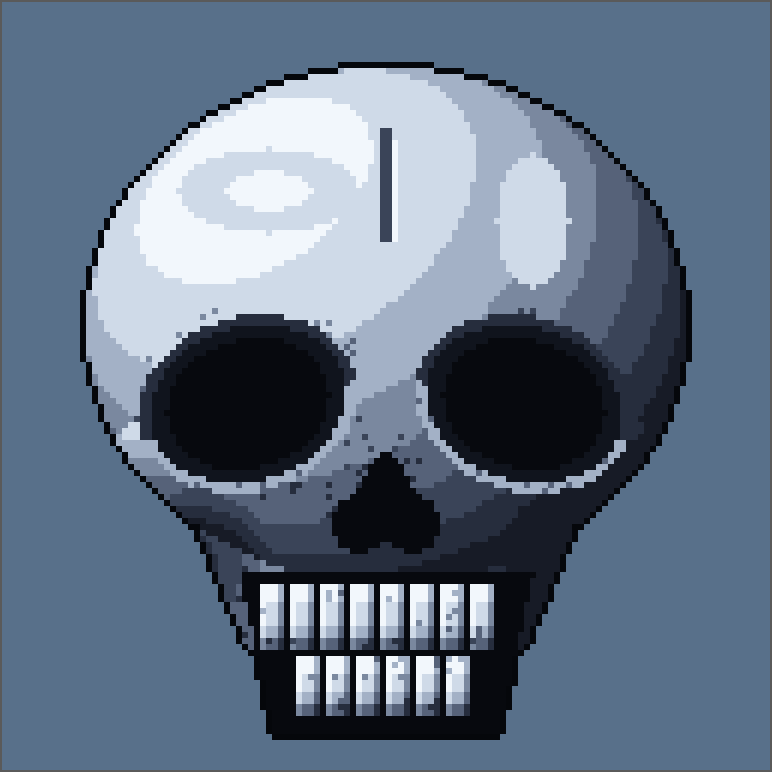
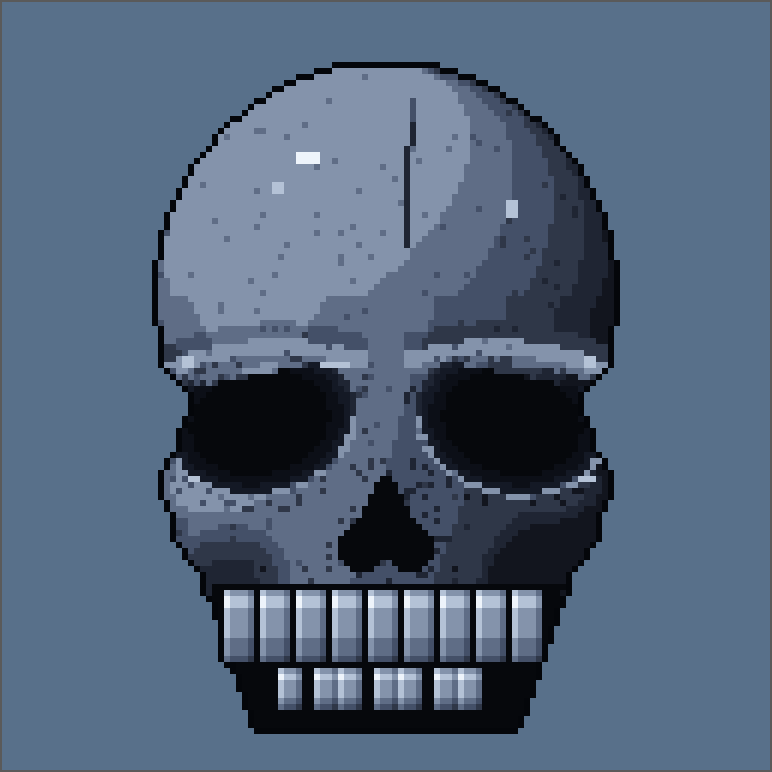
#293 試作: 体力バーのどくろを見本に近づける（縦長の頭・眉の骨・こけた頬・いぶし銀）
Claude-Session: https://claude.ai/code/session_01QfHcWbgsws2Ytjz8pHv94r

diff --git a/art/293/hpbar-skull/build.py b/art/293/hpbar-skull/build.py
@@ -1,5 +1,5 @@
 """#293 試作: ボス体力バーの 飾り（銀の どくろの 指輪。見本は オーナーの 参考画像）。128 × 128、正面、左上から 光。
-python3 build.py で skull_1x.png と preview.png。とげ・刃・光る 目は 付けない（オーナー 2026-10-24）"""
+python3 build.py で skull_1x.png と preview.png。とげ・刃・光る 目は 付けない（オーナー 2026-10-24）。いぶし銀（暗めの 銀 ＋ 黒い よごれ ＋ 小さな 反射）"""
 import math, os, random, sys
 ROOT = os.path.abspath(os.path.join(os.path.dirname(__file__), "..", "..", ".."))
 sys.path.insert(0, os.path.join(ROOT, ".claude", "skills", "pixel-art-studio", "scripts"))
@@ -7,123 +7,140 @@ from pixelstudio import Sprite
 
 N = 128
 CX = 64.0
-SILVER = ["#171b26", "#262d3d", "#3a4458", "#566279", "#7a889f", "#a3b1c6", "#cfdae8", "#f2f7fc"]
-PIT = "#07090e"  # くぼみの 奥
-OUT = "#05070b"
+SILVER = ["#12151e", "#1f2533", "#2f3748", "#445068", "#5f6d86", "#8493ab", "#b4c2d6", "#eef4fb"]
+PIT = "#06080c"
+OUT = "#04060a"
 LIGHT = (-0.5, -0.6, 0.62)
 rnd = random.Random(293)
 s = Sprite(N, N)
-buf = {}
-idx = {}  # 銀の 段の 番号（よごれ用）
-
-
-def shade_i(nx, ny, nz, bias=0.0):
-    d = nx * LIGHT[0] + ny * LIGHT[1] + nz * LIGHT[2]
-    t = max(0.0, min(0.999, 0.34 + 0.62 * d + bias))
-    return int(t * len(SILVER))
+buf, idx = {}, {}
 
 
 def put_i(x, y, i):
-    i = max(0, min(len(SILVER) - 1, i))
-    buf[(x, y)] = SILVER[i]; idx[(x, y)] = i
+    i = max(0, min(7, i)); buf[(x, y)] = SILVER[i]; idx[(x, y)] = i
 
 
 def put(x, y, c):
     buf[(x, y)] = c; idx.pop((x, y), None)
 
 
-def dome(px, py, cx, cy, rx, ry):
-    u, v = (px - cx) / rx, (py - cy) / ry
-    r = u * u + v * v
-    if r > 1: return None
-    return (u * 0.95, v * 0.95, math.sqrt(1 - r))
+def lit(nx, ny, nz, bias=0.0):
+    d = nx * LIGHT[0] + ny * LIGHT[1] + nz * LIGHT[2]
+    t = max(0.0, min(0.999, 0.30 + 0.55 * d + bias))
+    return min(5, int(t * 8))  # 6・7 は 小さな 反射の 点だけ
 
 
-# ---- ずがい（まるく ひろい）
+# ---- 横はばの 形（上: 縦長の まるい ずがい、こめかみで くびれ、ほおぼねで 張り、あごへ 細く）
+KEYS = [(44, 38), (54, 37), (62, 32), (68, 34), (75, 37), (83, 35), (92, 30), (101, 25), (109, 20), (114, 15)]
+def hw(y):
+    if y < 44:
+        t = (y - 5.5) / 38.5
+        return 38 * math.sqrt(max(0.0, 1 - (1 - t) ** 2)) if t > 0 else 0
+    for (y0, w0), (y1, w1) in zip(KEYS, KEYS[1:]):
+        if y0 <= y <= y1:
+            t = (y - y0) / (y1 - y0); t = t * t * (3 - 2 * t)
+            return w0 + (w1 - w0) * t
+    return 0
+
+
 for y in range(N):
+    py = y + 0.5
+    w = hw(py)
+    if w < 1: continue
     for x in range(N):
-        px, py = x + 0.5, y + 0.5
-        n = dome(px, py, CX, 50, 50, 43)
-        if n is None and 60 <= py <= 104:
-            # ほお ・あご: 下へ すぼまる
-            t = (py - 60) / 44
-            w = 40 - 17 * t ** 1.1
-            dx = (px - CX) / w
-            if abs(dx) <= 1:
-                n = (dx * 0.95, 0.15 + 0.5 * t, math.sqrt(1 - dx * dx) * (0.9 - 0.25 * t))
-        if n is None: continue
+        dx = (x + 0.5 - CX) / w
+        if abs(dx) > 1: continue
+        nz = math.sqrt(1 - dx * dx)
+        if py < 44: ny = (py - 44) / 38.5 * 0.9
+        else: ny = 0.1 + (py - 44) / 70 * 0.5
         b = 0.0
-        # ほおぼねの 出っぱり（明るい）と その 下の こけた ほお（暗い）
         for sx in (-1, 1):
-            cb = dome(px, py, CX + sx * 33, 71, 13, 7)
-            if cb: n = (n[0] + cb[0] * 0.4, n[1] + cb[1] * 0.4, n[2] + 0.2)
-            hx, hy = (px - (CX + sx * 30)) / 11, (py - 88) / 12
-            if hx * hx + hy * hy < 1: b -= 0.28 * (1 - (hx * hx + hy * hy))
-        put_i(x, y, shade_i(*n, bias=b))
-# 頭頂の つや・まん中の すじ
-for y in range(N):
-    for x in range(N):
-        if (x, y) not in buf: continue
-        e = ((x - 44) / 15) ** 2 + ((y - 27) / 7) ** 2
-        if e <= 1: put_i(x, y, 7 if e < 0.22 else 6)
-        e2 = ((x - 88) / 6) ** 2 + ((y - 32) / 11) ** 2
-        if e2 <= 1: put_i(x, y, 6)
-        if abs(x + 0.5 - CX) < 0.8 and 16 < y < 36: put_i(x, y, 2)
-        elif abs(x + 0.5 - CX - 1.6) < 0.8 and 18 < y < 36: put_i(x, y, 7)
-# ---- 目の くぼみ（深く 暗い。光らない）
+            # ほおぼねの 出っぱり（明るい）／その 下の こけた ほお（暗い）
+            hx, hy = (x + 0.5 - (CX + sx * 30)) / 10, (py - 76) / 5.5
+            if hx * hx + hy * hy < 1: b += 0.22 * (1 - hx * hx - hy * hy) + 0.0
+            hx, hy = (x + 0.5 - (CX + sx * 25)) / 10, (py - 92) / 11
+            if hx * hx + hy * hy < 1: b -= 0.34 * (1 - (hx * hx + hy * hy))
+            # こめかみの くぼみ
+            hx, hy = (x + 0.5 - (CX + sx * 35)) / 6, (py - 60) / 9
+            if hx * hx + hy * hy < 1: b -= 0.2 * (1 - (hx * hx + hy * hy))
+        put_i(x, y, lit(dx * 0.95, ny, nz, bias=b - 0.04))
+
+# ---- 眉の 骨（目の 上の 明るい 帯）
 for sx in (-1, 1):
-    cx, cy, a = CX + sx * 23, 63, sx * 0.28
+    for y in range(N):
+        for x in range(N):
+            if (x, y) not in buf: continue
+            ux = (x + 0.5 - (CX + sx * 21)) / 18
+            top = 55.5 + 2.2 * sx * -ux * 0.0 + (ux * ux) * 3.5 + sx * ux * 1.2  # 外へ 少し さがる
+            if abs(ux) <= 1 and top - 4.2 <= y + 0.5 <= top:
+                put_i(x, y, 5 if y + 0.5 < top - 1.5 else 4)
+            elif abs(ux) <= 1 and top - 7 <= y + 0.5 < top - 4.2:
+                put_i(x, y, max(2, idx[(x, y)] - 1))
+# ---- 目の くぼみ（上が 平らで 少し ななめ。奥へ 暗く）
+for sx in (-1, 1):
+    cx, cy, a = CX + sx * 21, 65, sx * 0.2
     ca, sa = math.cos(a), math.sin(a)
     for y in range(N):
         for x in range(N):
             dx, dy = x + 0.5 - cx, y + 0.5 - cy
-            ux, uy = (dx * ca + dy * sa) / 18.5, (-dx * sa + dy * ca) / 14.5
+            ux, uy = (dx * ca + dy * sa) / 16.5, (-dx * sa + dy * ca) / 12.5
             r = ux * ux + uy * uy
-            if r <= 1.0 and (x, y) in buf:
-                if r > 0.8: put_i(x, y, 1 if uy < 0.1 else 5)   # ふち: 上は かげ、下は 光を 受ける
-                elif r > 0.55: put(x, y, "#10141d")
+            if r <= 1.0 and uy > -0.62 and (x, y) in buf:
+                d = 1 - r
+                if d < 0.14: put_i(x, y, 1 if uy < 0.2 else 5)      # ふち: 下は 光を 受ける
+                elif d < 0.3: put(x, y, "#141925")
+                elif d < 0.5: put(x, y, "#0c0f17")
                 else: put(x, y, PIT)
 # ---- 鼻（逆ハート）
 for y in range(N):
     for x in range(N):
         px, py = x + 0.5 - CX, y + 0.5
         inside = False
-        if 71 <= py <= 83:
-            t = (py - 71) / 12
-            inside = abs(px) <= 1.2 + 6.5 * t
+        if 74 <= py <= 86:
+            t = (py - 74) / 12
+            inside = abs(px) <= 1 + 6 * t
         for sx in (-1, 1):
-            if (px - sx * 4.4) ** 2 + (py - 83) ** 2 <= 4.8 ** 2: inside = True
+            if (px - sx * 3.9) ** 2 + (py - 86) ** 2 <= 4.2 ** 2: inside = True
         if inside and (x, y) in buf: put(x, y, PIT)
-# ---- 歯（上の 列・下の 列）。口は 暗い
-for y in range(91, 118):
-    t = (y - 91) / 27
-    half = 24 - 6 * t
+# ---- 口と 歯
+for y in range(92, 116):
+    t = (y - 92) / 24
+    half = 29 - 8 * t
     for x in range(int(CX - half), int(CX + half) + 1):
         put(x, y, PIT)
-def row(y0, y1, half, step, off):
-    n = int(2 * half // step)
+TEETH = set()
+def teeth(y0, y1, n, step, off=0.0):
+    x_start = CX - n * step / 2 + off
     for k in range(n):
-        x0 = int(CX - half + 1 + k * step + off)
+        x0 = int(round(x_start + k * step))
         for yy in range(y0, y1):
             t = (yy - y0) / (y1 - y0)
             for xx in range(x0, x0 + step - 1):
-                i = 7 if t < 0.25 else 6 if t < 0.55 else 5 if t < 0.8 else 3
+                i = 6 if t < 0.25 else 5 if t < 0.6 else 4 if t < 0.85 else 3
                 if xx == x0: i += 1
-                if xx == x0 + step - 2: i -= 2
-                put_i(xx, yy, i)
-row(93, 104, 22, 5, 0)
-row(105, 115, 17, 5, 1)
-# ---- よごれ: 暗い ところの そばで 少し 暗く（いぶし銀）
-dark = {p for p, c in buf.items() if c in (PIT, "#10141d")}
+                if xx == x0 + step - 2: i -= 1
+                if yy == y0: i -= 1  # 歯ぐきの よごれ
+                put_i(xx, yy, i); TEETH.add((xx, yy))
+teeth(93, 105, 9, 6)
+teeth(106, 113, 7, 5, 0.0)
+# ---- 額の すじ（まん中から 少し ずれた 浅い みぞ）
+for y in range(11, 36):
+    x = int(CX + 4 + 0.8 * math.sin(y / 6))
+    if (x, y) in buf: put_i(x, y, 1 if y > 14 else 3)
+    if (x + 1, y) in buf: put_i(x + 1, y, 5)
+# ---- よごれ（暗い ところの そば）と 小さな 反射
+dark = {p for p, c in buf.items() if c in (PIT, "#141925", "#0c0f17")}
 for (x, y), i in list(idx.items()):
-    if i >= 3 and rnd.random() < 0.10:
-        near = any((x + dx, y + dy) in dark for dx in (-3, 0, 3) for dy in (-3, 0, 3))
-        if near: put_i(x, y, i - 2)
+    if i >= 2 and (x, y) not in TEETH and rnd.random() < 0.16:
+        if any((x + dx, y + dy) in dark for dx in (-3, 0, 3) for dy in (-3, 0, 3)): put_i(x, y, i - 2)
 for (x, y), i in list(idx.items()):
-    pass
-for (x, y) in list(buf):
-    s.px(x, y, buf[(x, y)])
-s.shift(0, 4)
+    if rnd.random() < 0.025 and i >= 2 and (x, y) not in TEETH: put_i(x, y, i - 1)
+for (cx, cy, w, h, i) in [(49, 20, 4, 2, 7), (45, 25, 2, 2, 6), (84, 28, 2, 3, 6), (30, 54, 2, 2, 6), (97, 54, 2, 2, 6), (31, 74, 3, 1, 6), (96, 74, 3, 1, 6), (53, 55, 5, 1, 6)]:
+    for yy in range(cy, cy + h):
+        for xx in range(cx, cx + w):
+            if (xx, yy) in idx: put_i(xx, yy, i)
+for (x, y) in list(buf): s.px(x, y, buf[(x, y)])
+s.shift(0, 5)
 s.outline(OUT, where="outside")
 s.preview(os.path.join(os.path.dirname(__file__), "preview.png"), scale=6, bg="#58708a", labels=False)
 s.save_png(os.path.join(os.path.dirname(__file__), "skull_1x.png"))
